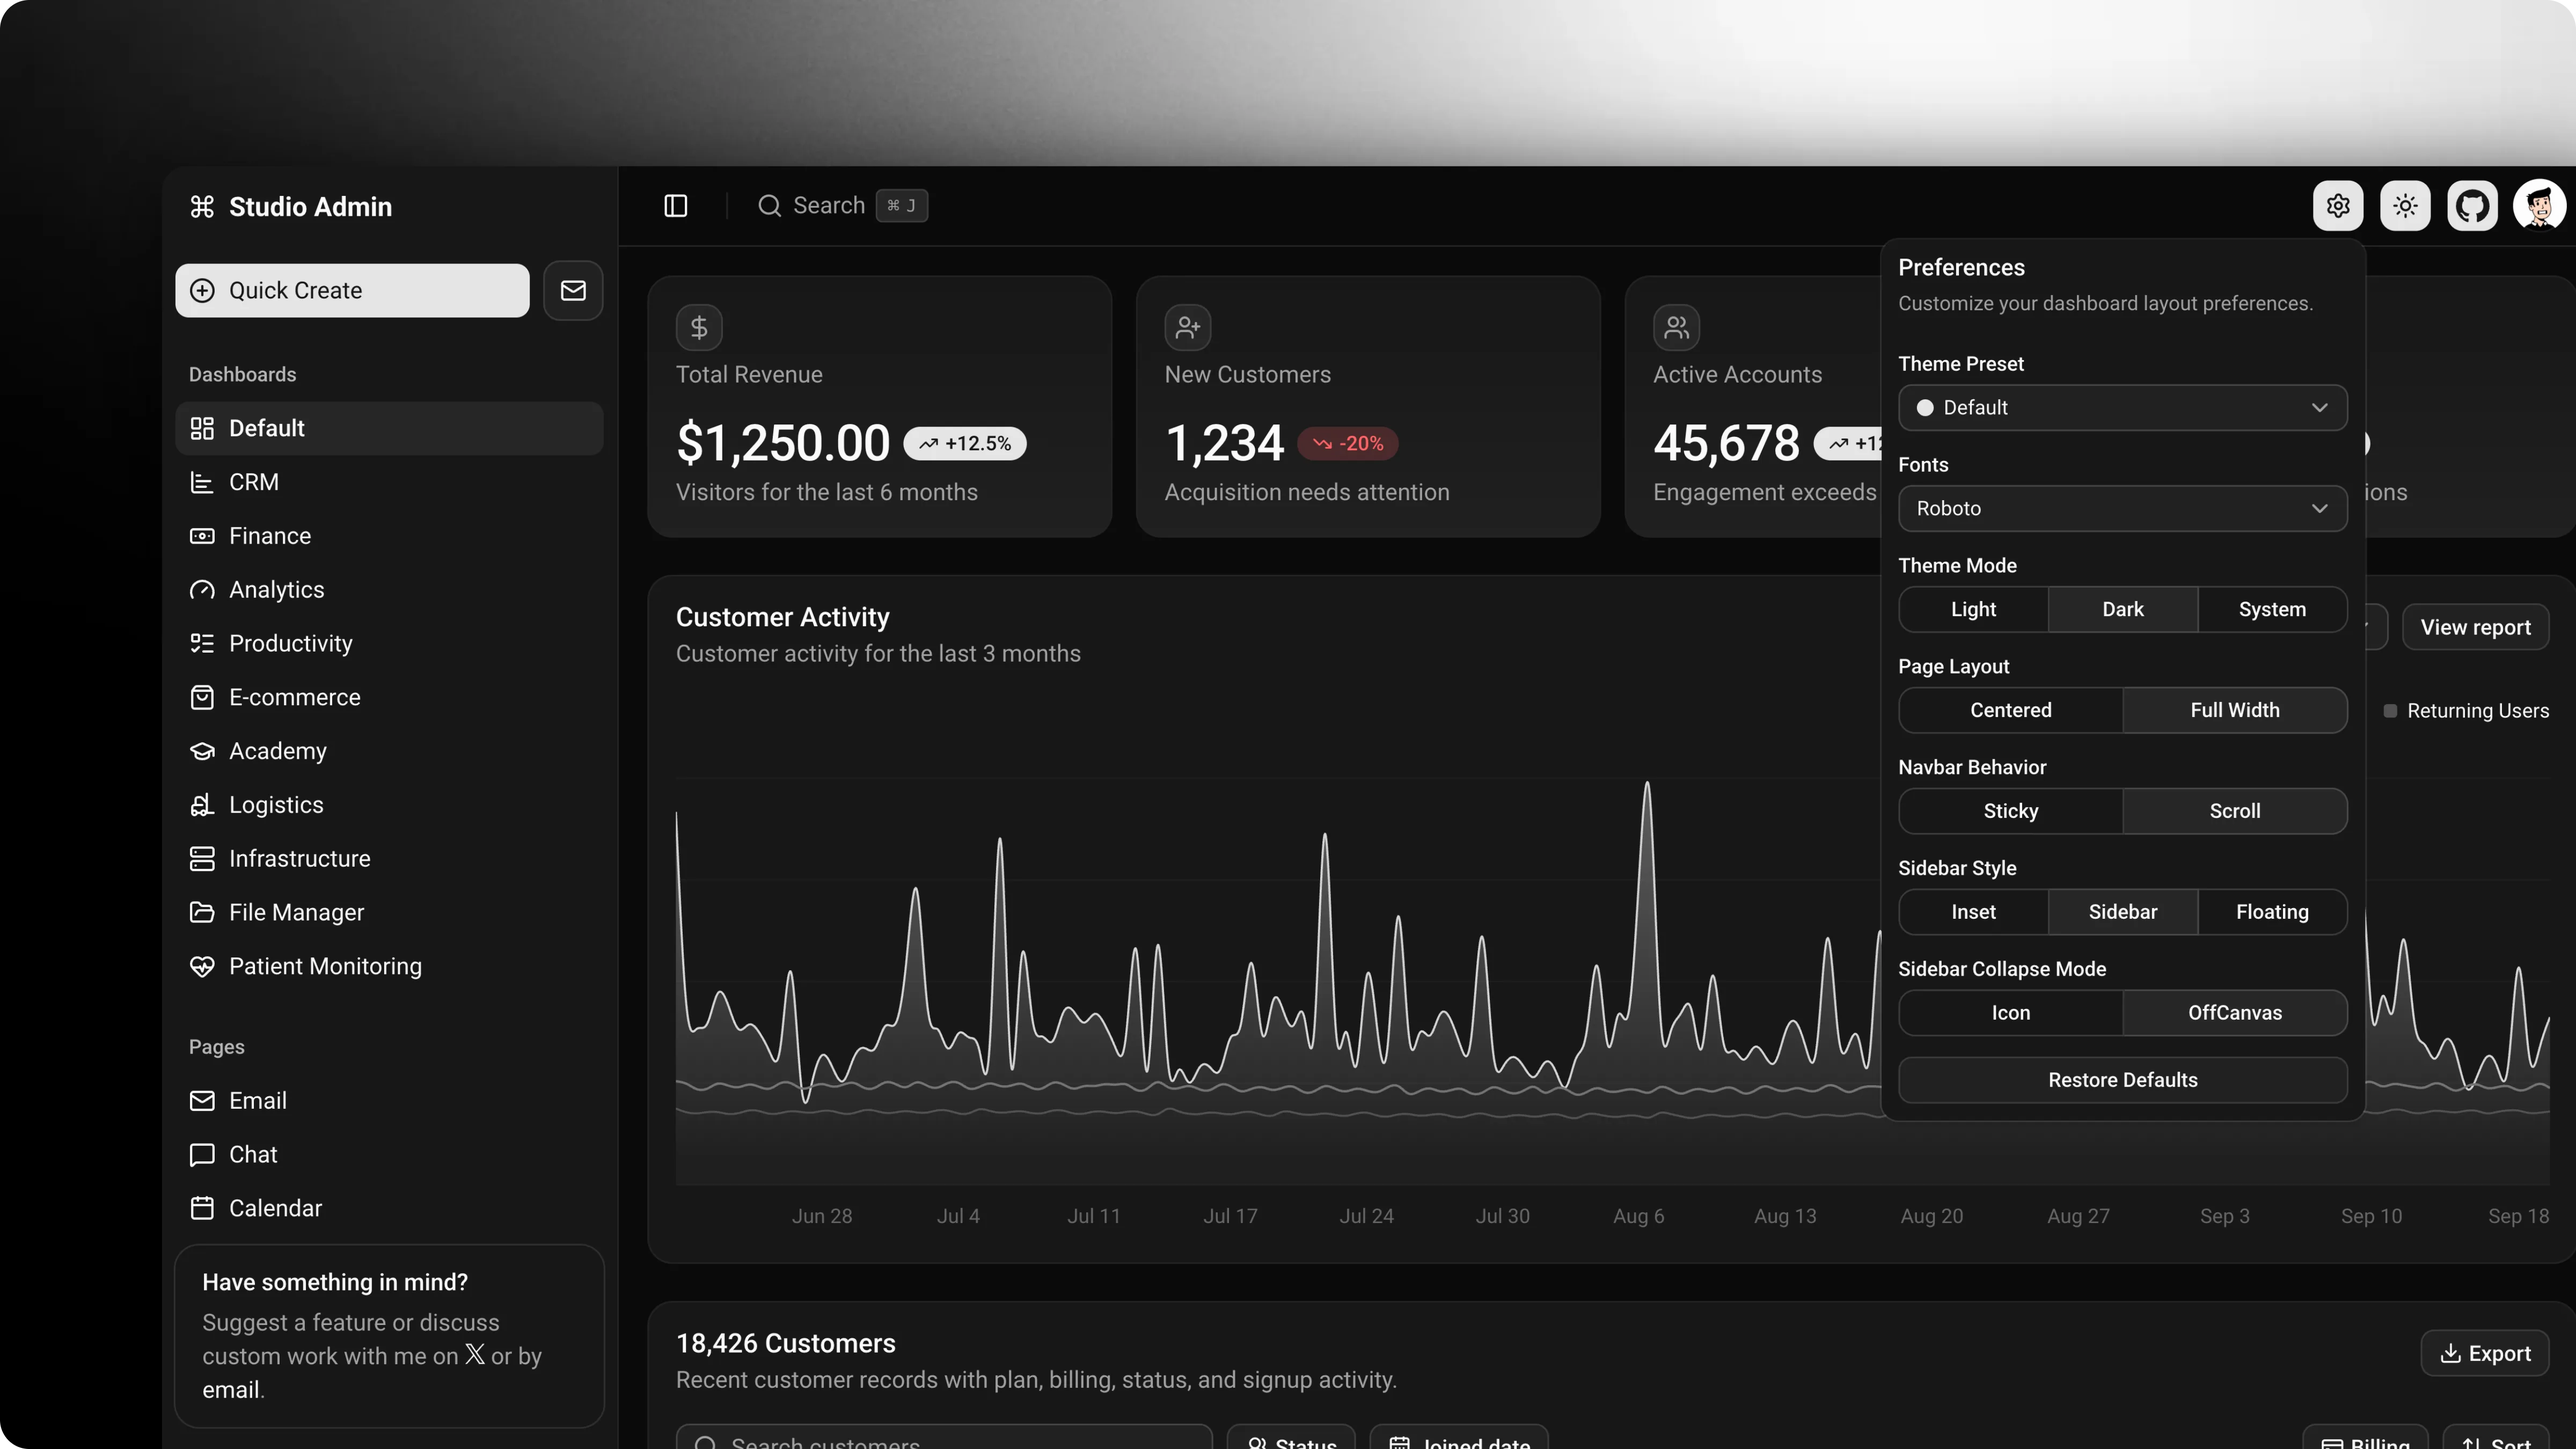
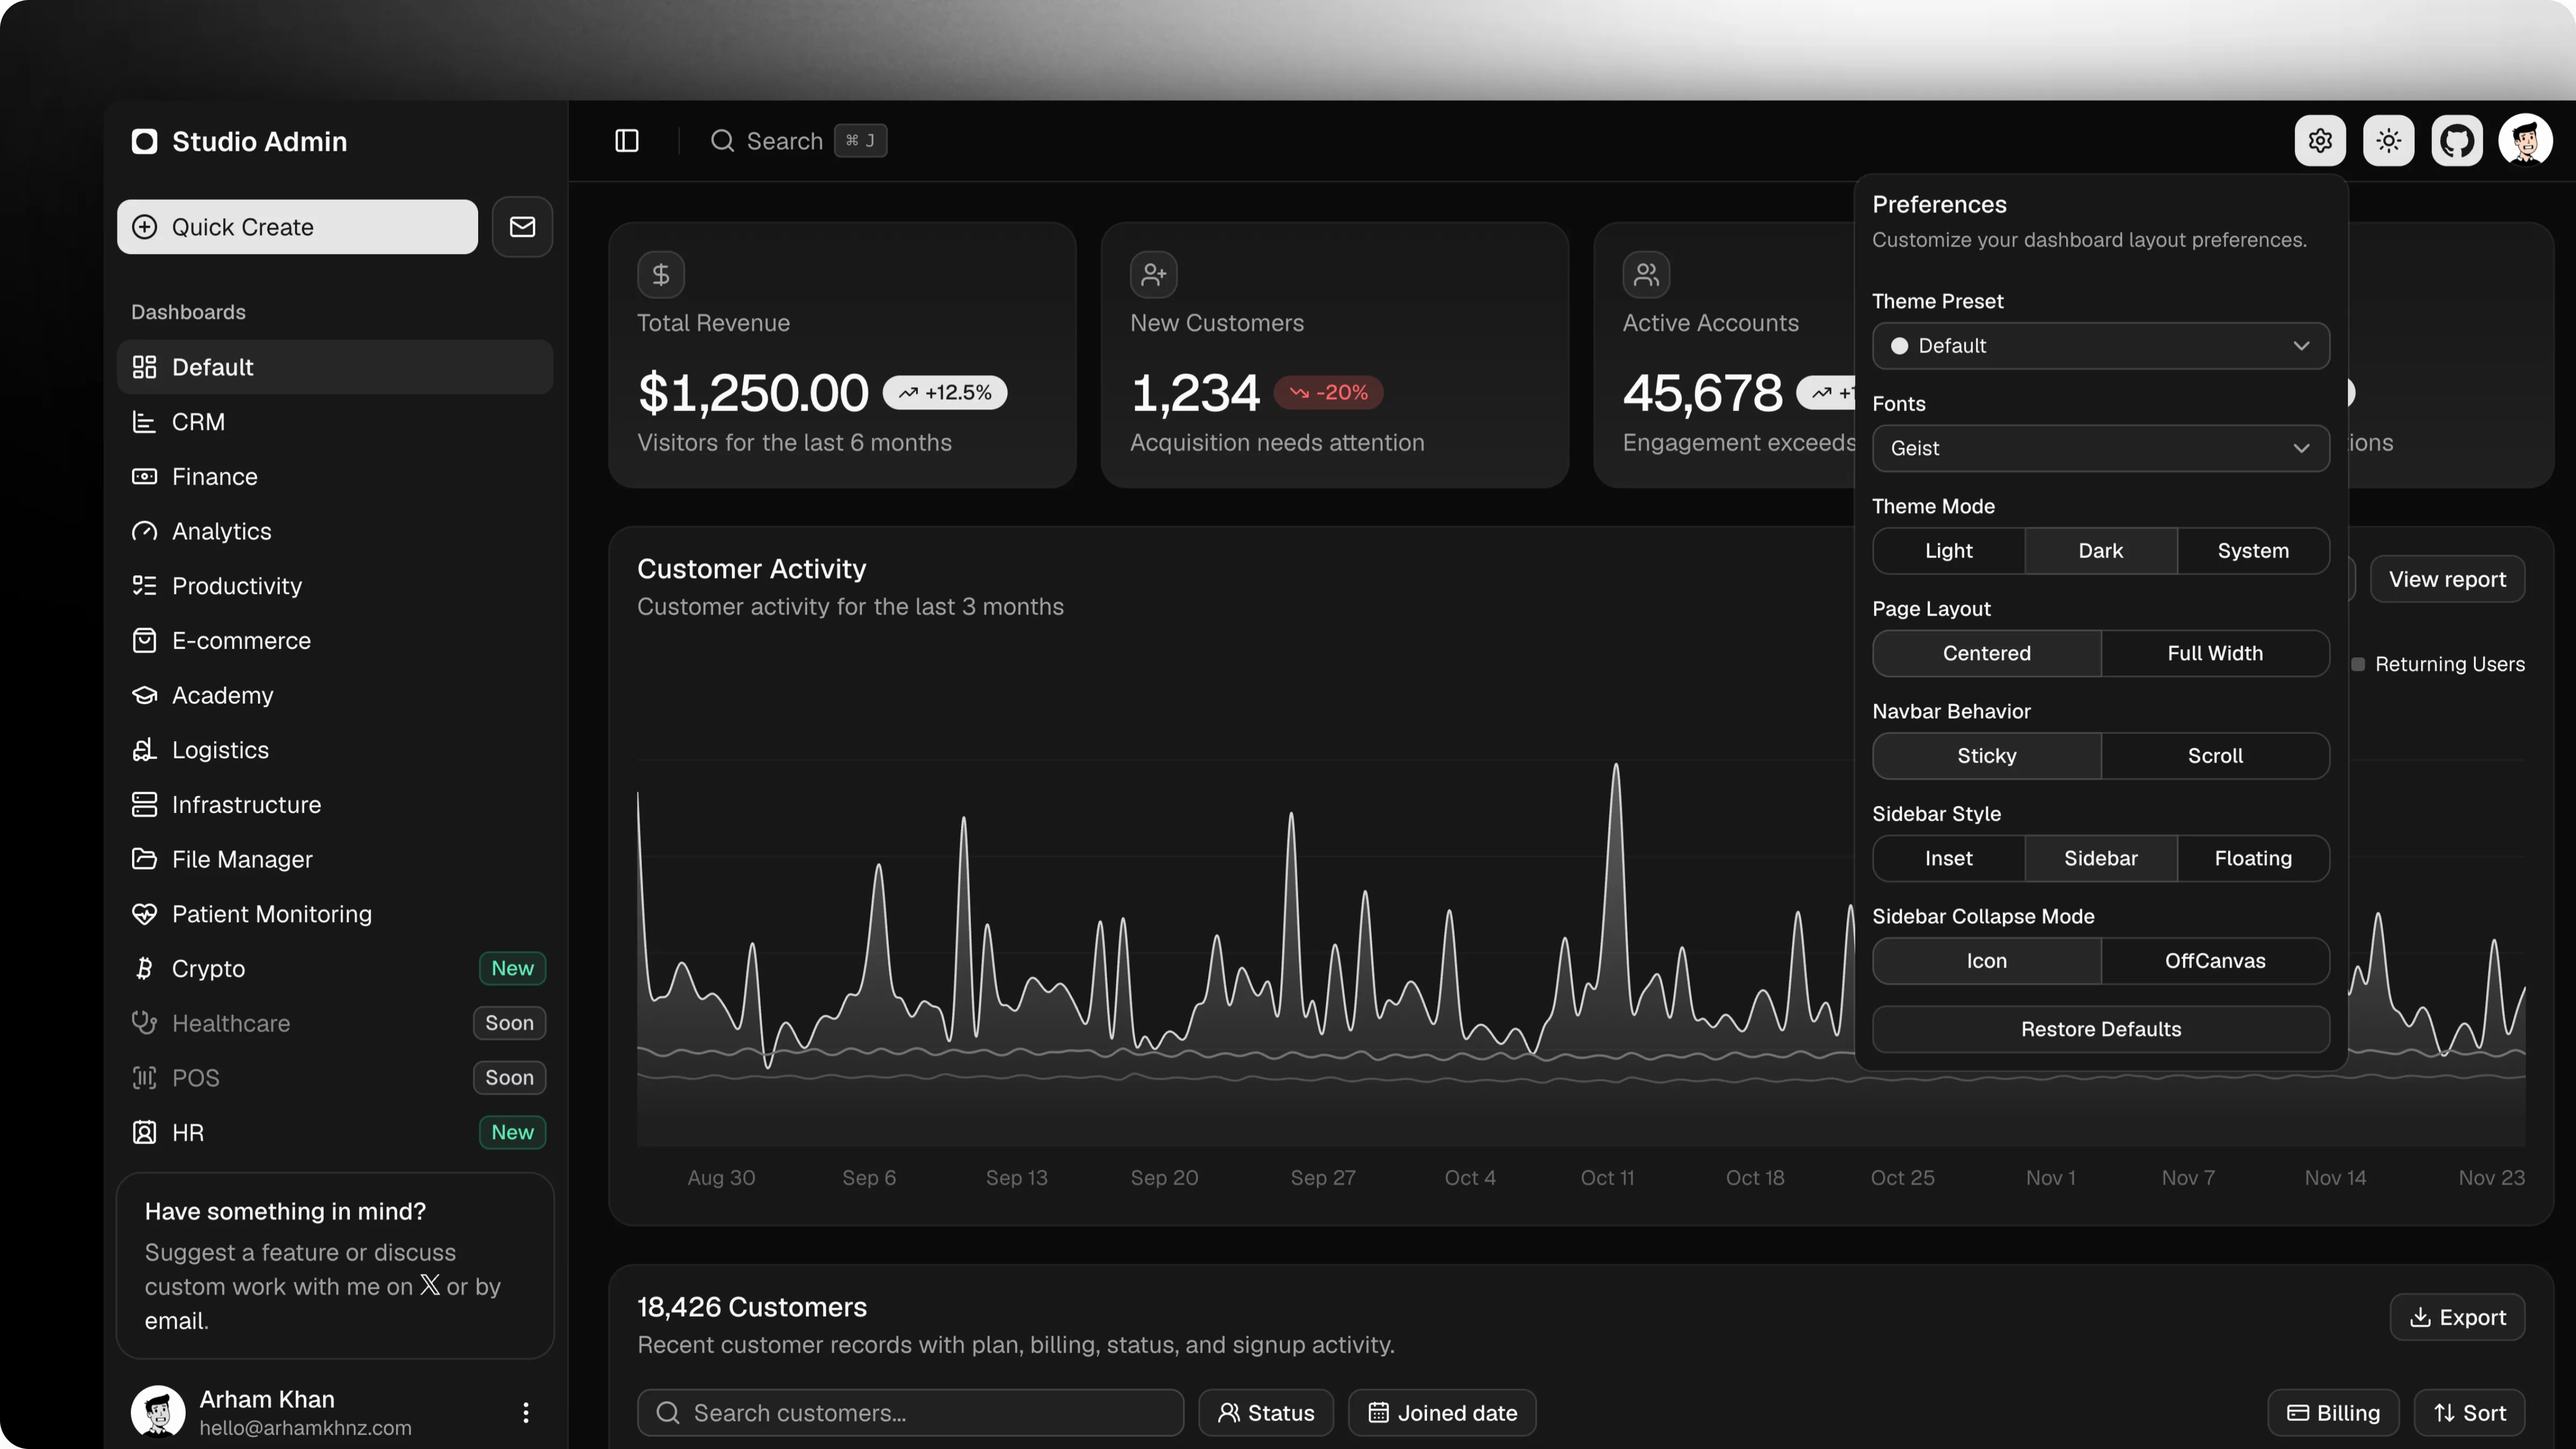
feat: improve dashboard SEO and refresh documentation

diff --git a/src/app/(external)/page.tsx b/src/app/(external)/page.tsx
@@ -32,9 +32,33 @@ export const metadata: Metadata = {
 export default function Home() {
   const websiteJsonLd = {
     "@context": "https://schema.org",
-    "@type": "WebSite",
-    name: APP_CONFIG.name,
-    url: new URL("/", APP_CONFIG.url).href,
+    "@graph": [
+      {
+        "@type": "WebSite",
+        "@id": `${APP_CONFIG.url}/#website`,
+        name: APP_CONFIG.name,
+        description: APP_CONFIG.meta.description,
+        url: new URL("/", APP_CONFIG.url).href,
+        inLanguage: "en",
+      },
+      {
+        "@type": "SoftwareSourceCode",
+        "@id": `${APP_CONFIG.url}/#source-code`,
+        name: APP_CONFIG.name,
+        description: APP_CONFIG.meta.description,
+        url: new URL("/", APP_CONFIG.url).href,
+        codeRepository: APP_CONFIG.repository,
+        license: `${APP_CONFIG.repository}/blob/main/LICENSE`,
+        programmingLanguage: "TypeScript",
+        runtimePlatform: "Next.js, React",
+        isPartOf: { "@id": `${APP_CONFIG.url}/#website` },
+        author: {
+          "@type": "Person",
+          name: "Arham Khan",
+          url: "https://github.com/arhamkhnz",
+        },
+      },
+    ],
   };
 
   // Keeps landing-page colors independent from saved dashboard theme presets.

diff --git a/src/app/(main)/dashboard/crypto/page.tsx b/src/app/(main)/dashboard/crypto/page.tsx
@@ -13,10 +13,11 @@ import { PortfolioHoldings } from "./_components/portfolio-holdings";
 import { PriceChart } from "./_components/price-chart";
 
 export const metadata: Metadata = {
-  title: "Crypto Dashboard",
-  robots: {
-    index: false,
-    follow: true,
+  title: "Open Source Crypto Dashboard with shadcn/ui",
+  description:
+    "Explore an open source crypto dashboard UI with portfolio holdings, price charts, exchange allocation, and account activity.",
+  alternates: {
+    canonical: "/dashboard/crypto",
   },
 };
 

diff --git a/src/app/(main)/dashboard/hr/page.tsx b/src/app/(main)/dashboard/hr/page.tsx
@@ -13,10 +13,11 @@ import { KpiCards } from "./_components/kpi-cards";
 import { OvertimeOverview } from "./_components/overtime-overview";
 
 export const metadata: Metadata = {
-  title: "HR Dashboard",
-  robots: {
-    index: false,
-    follow: true,
+  title: "Open Source HR Dashboard with shadcn/ui",
+  description:
+    "Explore an open source HR dashboard with workforce metrics, attendance, overtime, employee tenure, and a hiring pipeline.",
+  alternates: {
+    canonical: "/dashboard/hr",
   },
 };
 

diff --git a/src/app/sitemap.ts b/src/app/sitemap.ts
@@ -17,6 +17,7 @@ const PUBLIC_ROUTES = [
   "/dashboard/file-manager",
   "/dashboard/patient-monitoring",
   "/dashboard/crypto",
+  "/dashboard/hr",
   "/dashboard/calendar",
   "/dashboard/kanban",
   "/dashboard/tasks",
@@ -34,6 +35,6 @@ const PUBLIC_ROUTES = [
 
 export default function sitemap(): MetadataRoute.Sitemap {
   return PUBLIC_ROUTES.map((route) => ({
-    url: `${APP_CONFIG.url}${route}`,
+    url: new URL(route, APP_CONFIG.url).href,
   }));
 }

diff --git a/README.md b/README.md
@@ -70,6 +70,7 @@ Most admin templates I found, free or paid, felt cluttered, outdated, or too rig
 - File Manager  
 - Patient Monitoring  
 - Crypto Dashboard  
+- HR Dashboard  
 - Products Page  
 - Chat Page  
 - Email Page  
@@ -84,7 +85,10 @@ Most admin templates I found, free or paid, felt cluttered, outdated, or too rig
 - Legacy: Default v1, CRM v1, Finance v1, Analytics v1
 
 ### Planned
-I’ve added all the planned screens. Feel free to open an issue for requesting something specific.
+- Healthcare Dashboard
+- POS Dashboard
+- Restaurant Dashboard
+- Hotel Dashboard
 
 ## Colocation File System Architecture
 
